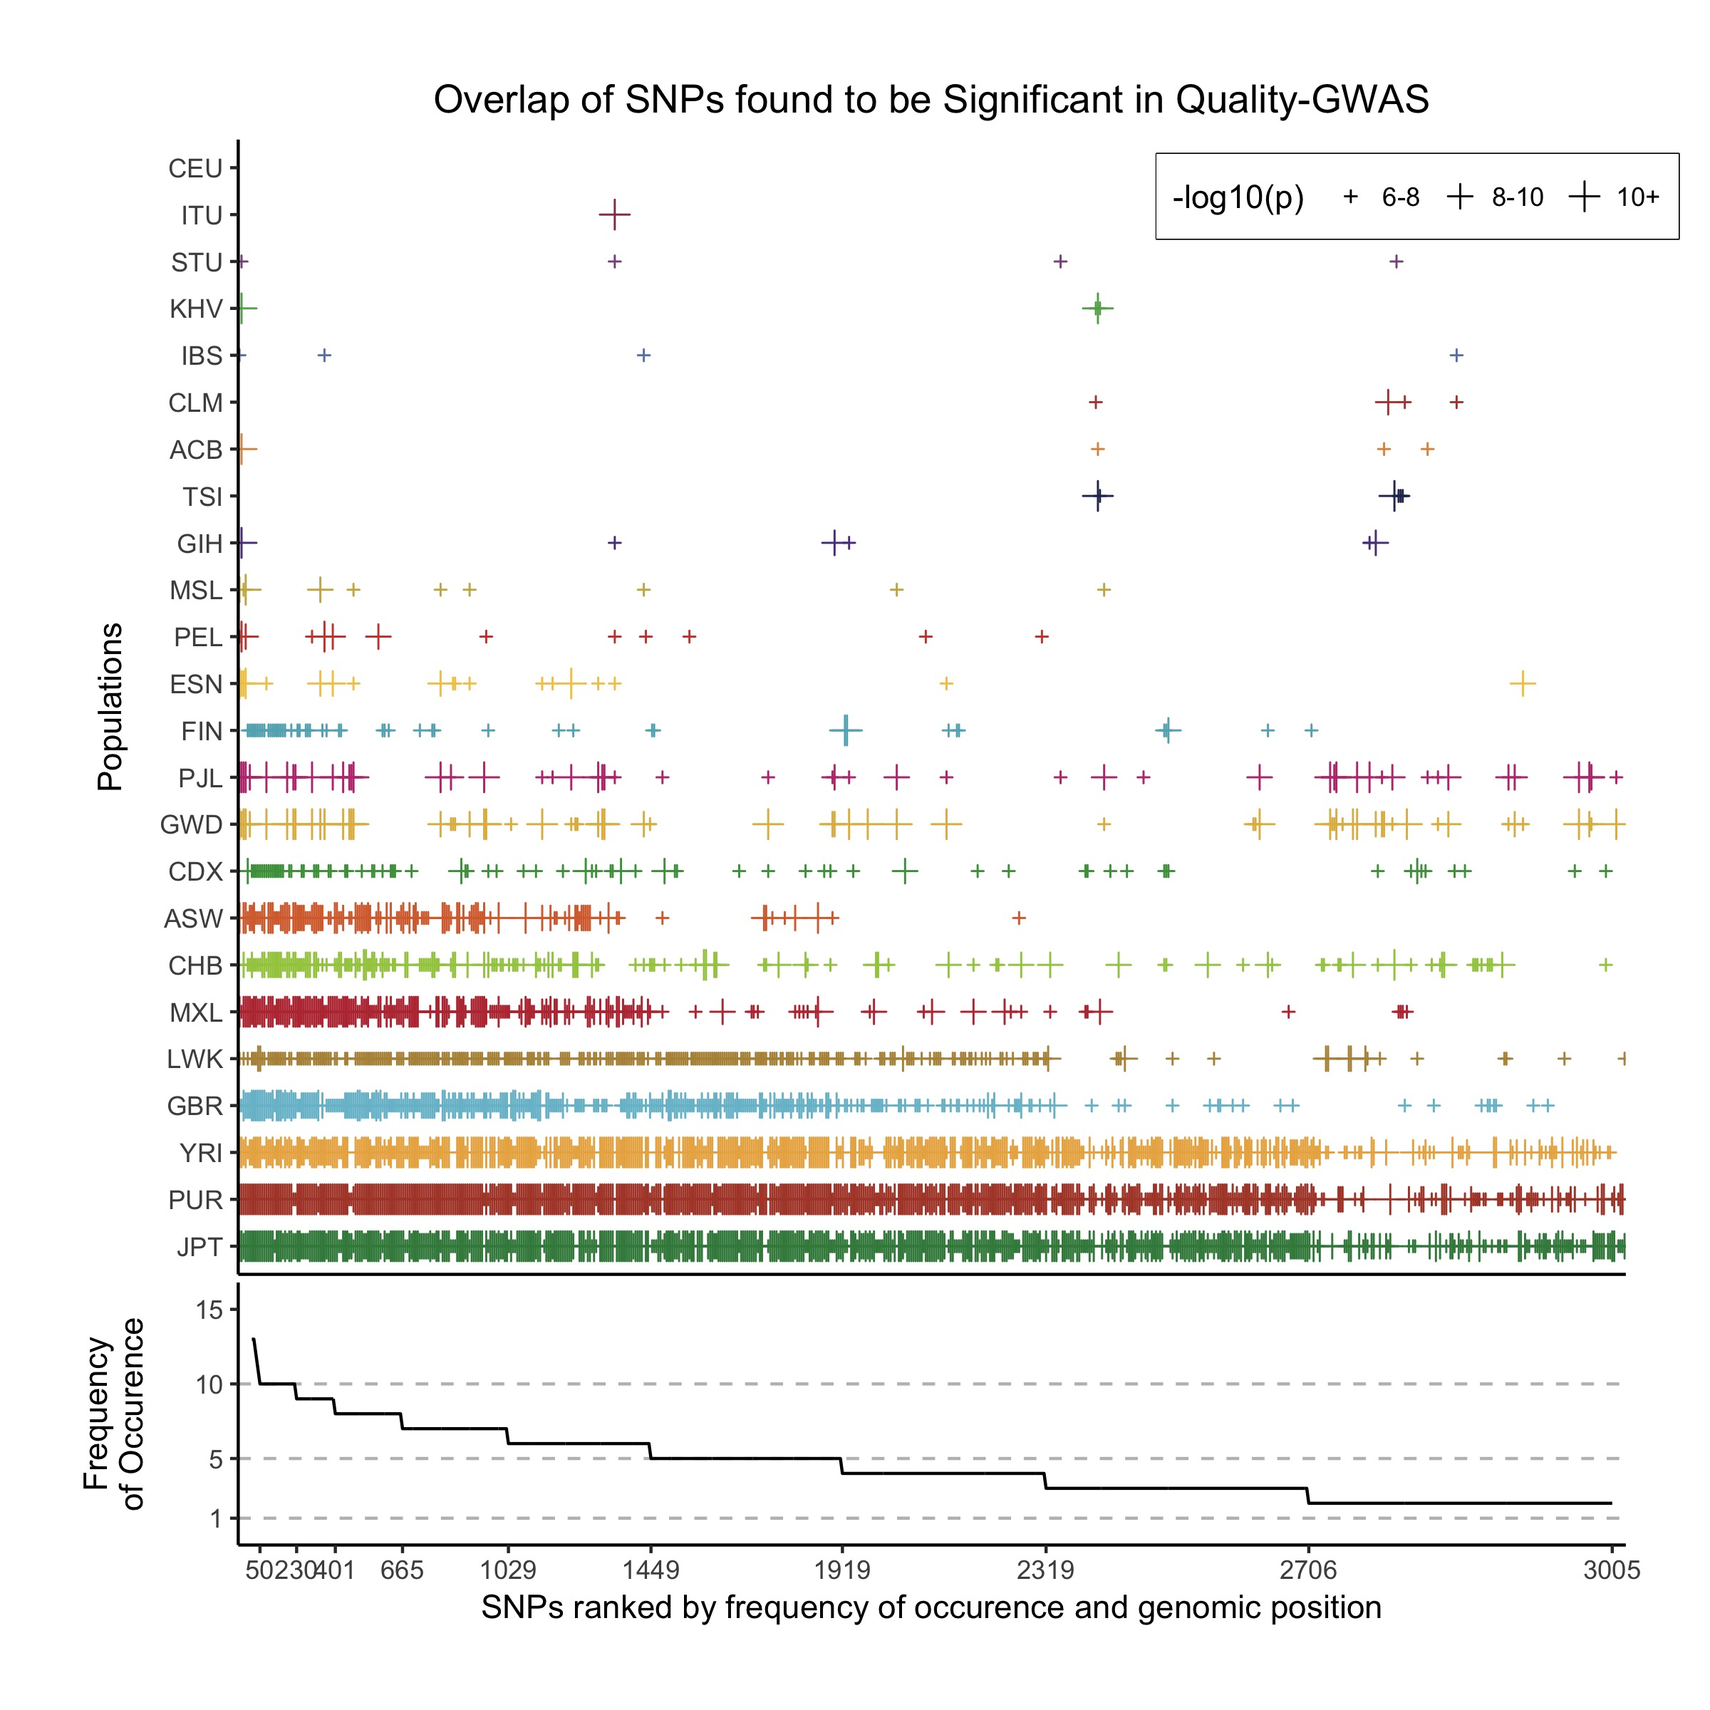
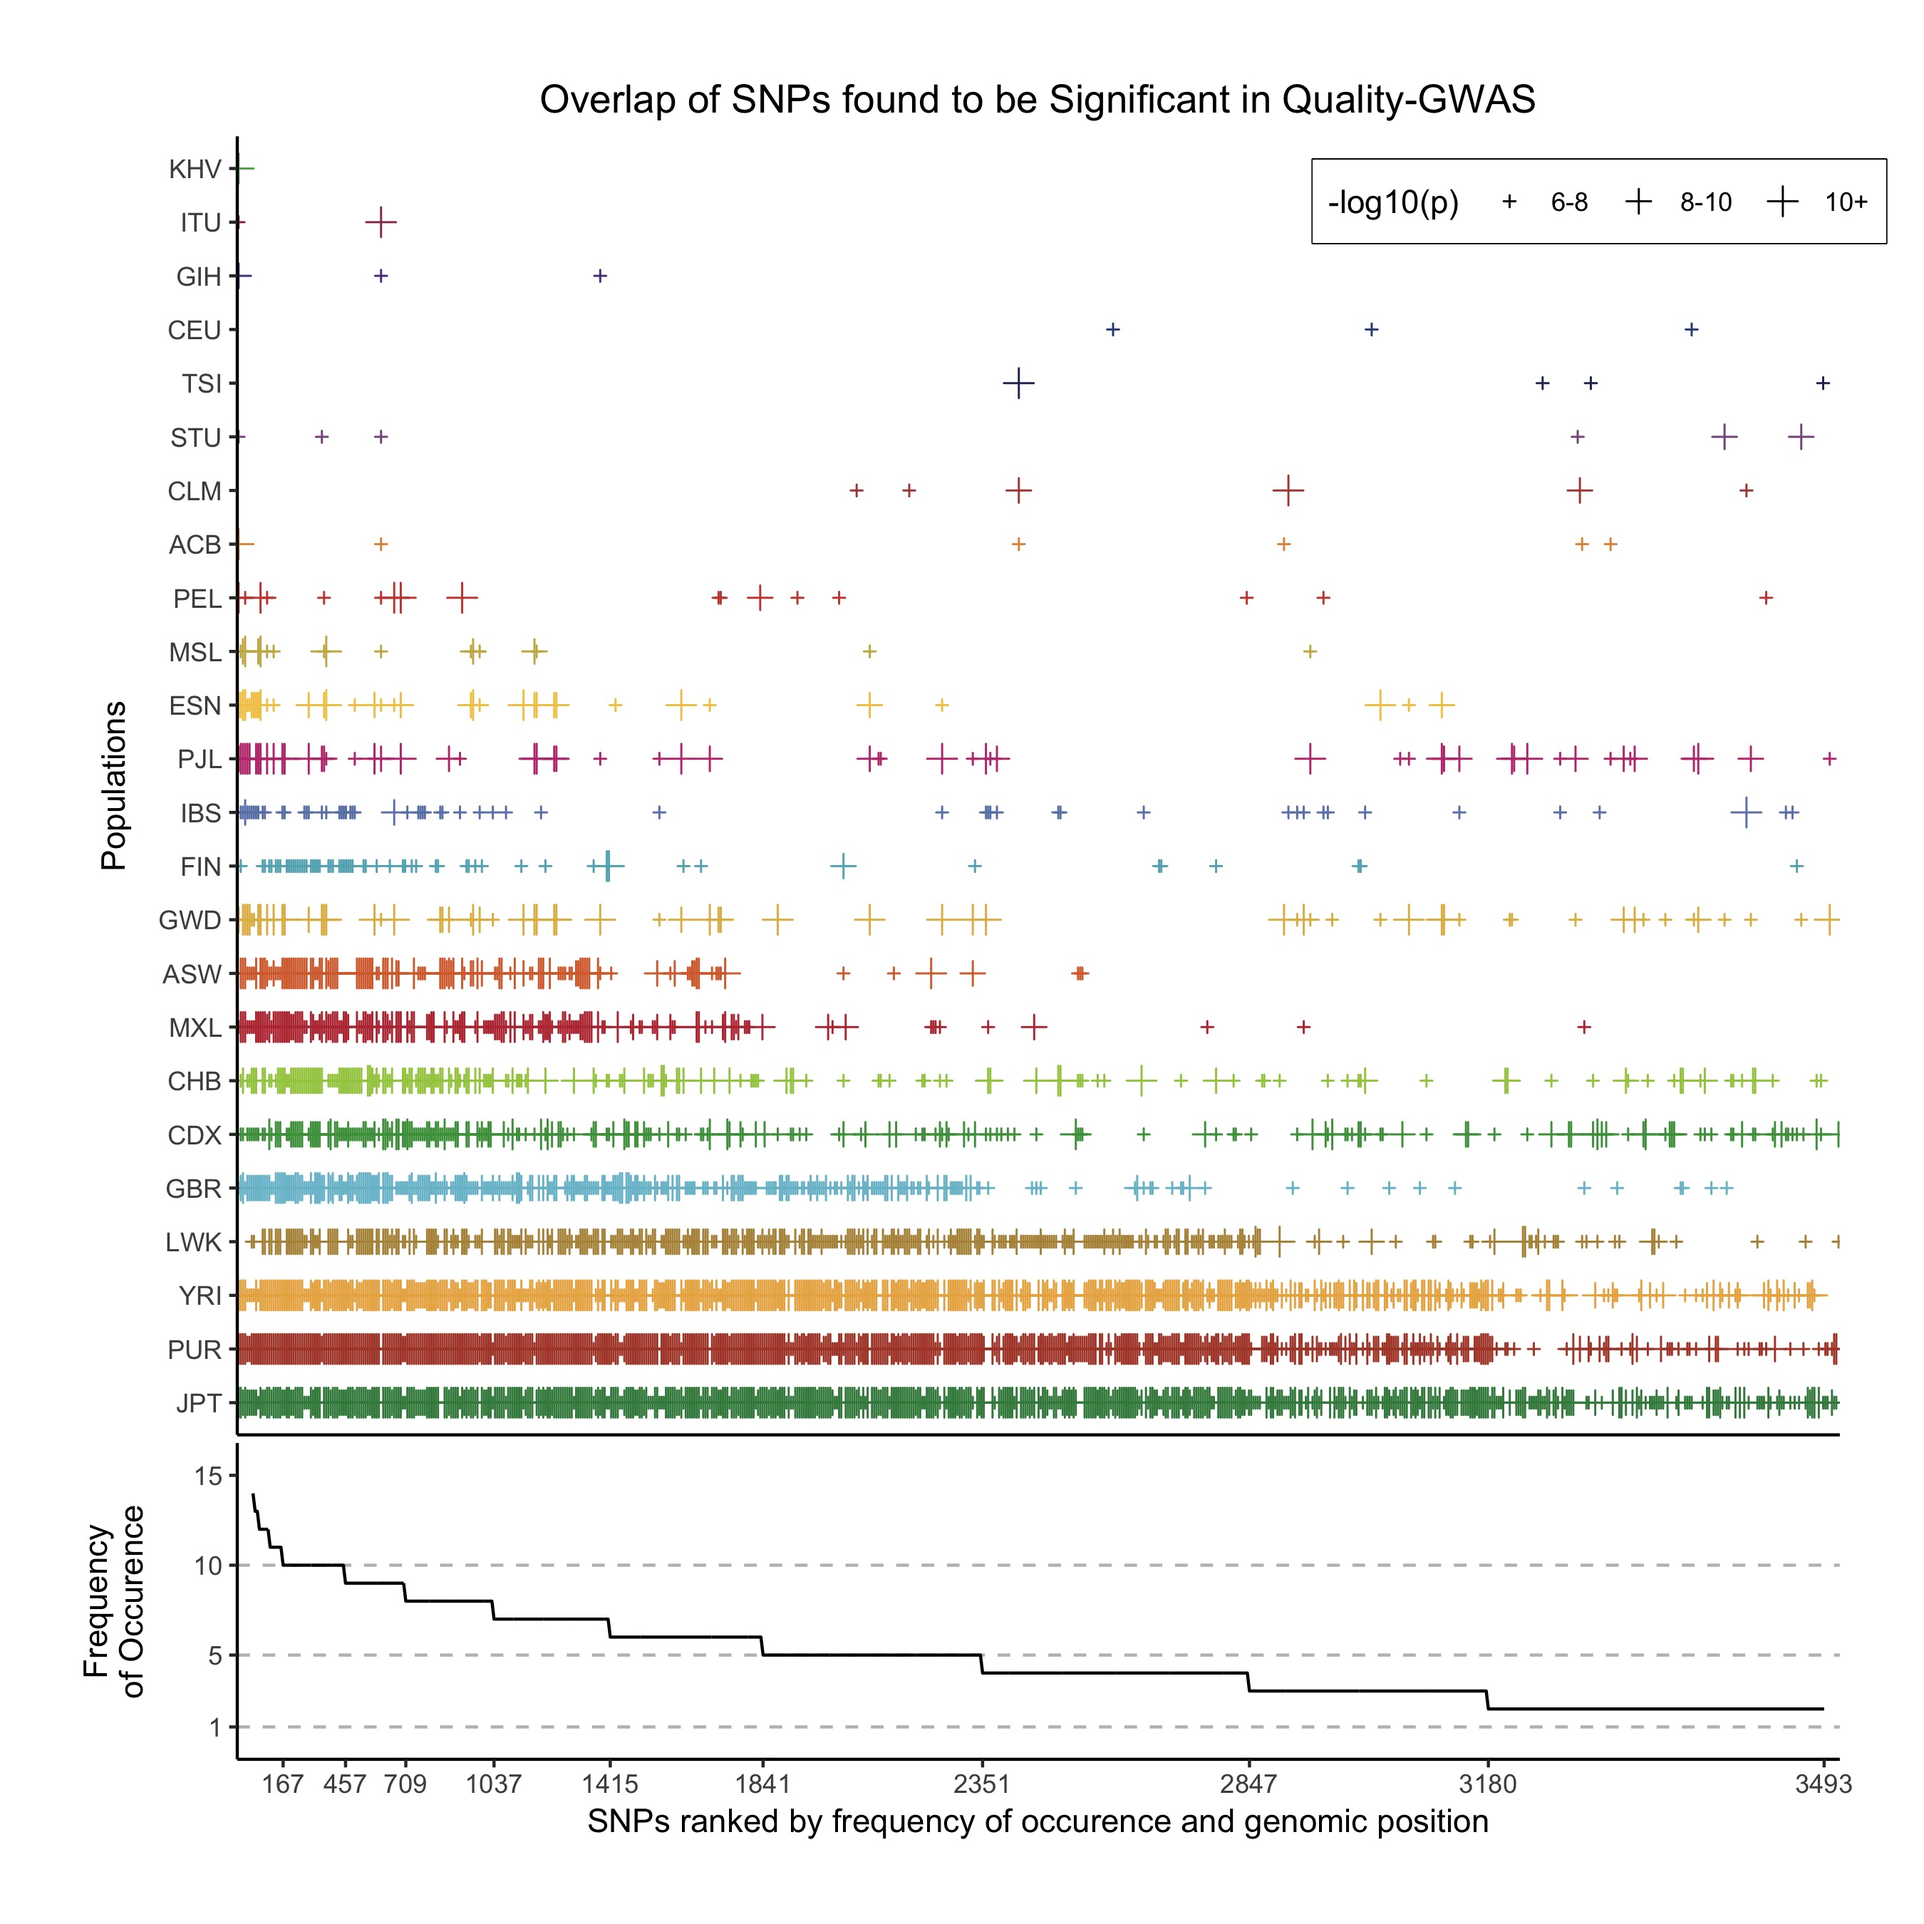
Updated Figure 3 (minor edits to F1)

diff --git a/legacy.tex b/legacy.tex
@@ -26,6 +26,7 @@
 
 \author[1,2]{Luke Anderson-Trocm\'e}
 \author[1,2]{Mathieu Bourgey}
+\author[1,2]{Rick Farouni}
 \author[3]{Fumihiko Matsuda (and coauthors)}
 \author[1,2]{Simon Gravel}
 
@@ -130,7 +131,7 @@ To identify SNPs that are likely to reproduce poorly across cohorts (without hav
 \luke{NEW:} 
 Whereas the majority of GWAS use linear regression predicting a phenotype based on genotype, our method does the inverse.
 We are looking for loci where the genotypes are predictable based on the data quality scores.
-We were able to identify \todo{000} SNPs with $p < 10^{-8}$ and \todo{000} SNPs with $ p < 10^{-6}$.
+We were able to identify 587 SNPs with $p < 10^{-8}$ and 1034 SNPs with $ p < 10^{-6}$.
 While identifying putative low-quality SNPs to exclude, using a higher $p$-value threshold increases the stringency of the filtering (i.e., the traditional genome-wide significance threshold might not be a good guide for filtering).  
  %This GWAS included 104 Japanese individuals, 74 of which were sequenced in using the Genome Analyzer II while the rest were sequenced using the HiSeq 2000 of the 1kGP.
 The variants that are associated to the quality of mapped bases have an enrichment in *AC${\rightarrow}$*CC mutations. 
